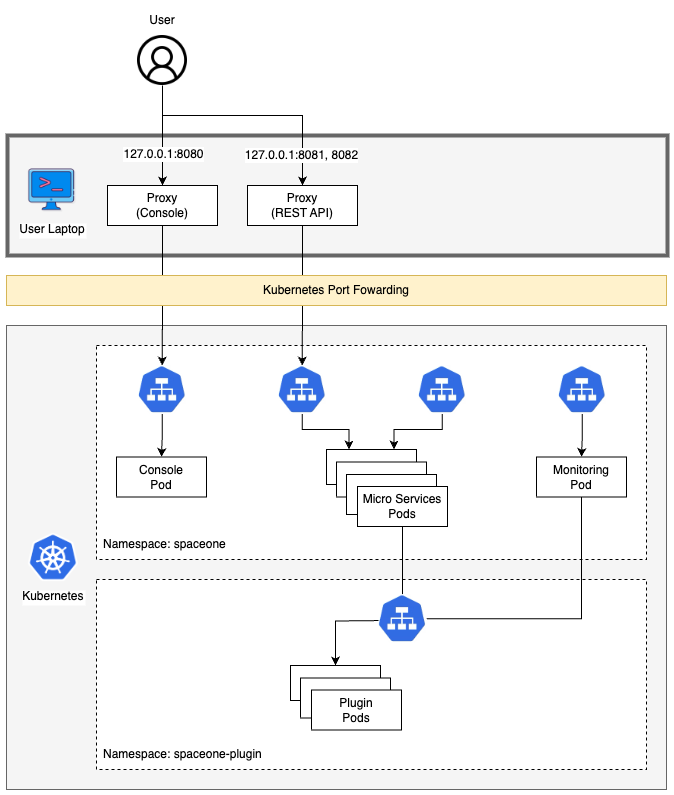
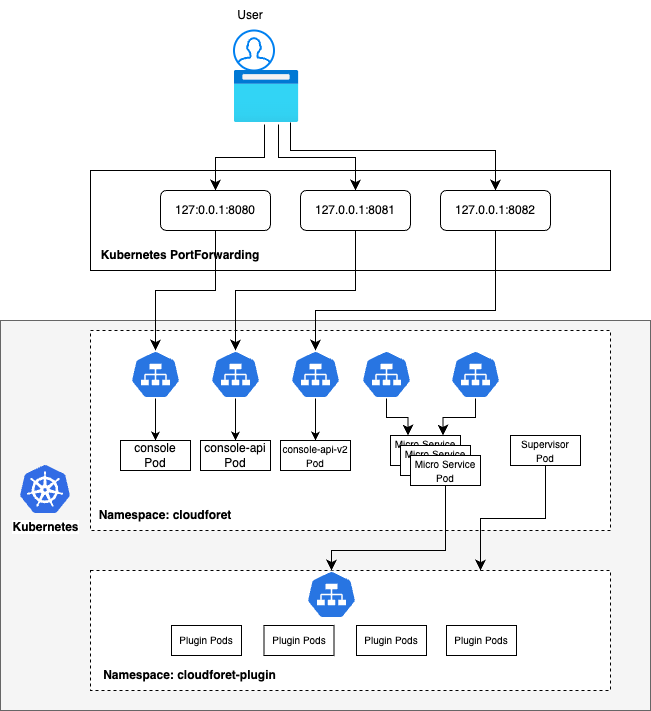
New installation for Version 2.x

Changed region(s): [[0.0, 0.0, 1.0, 1.0], [0.768, 0.557, 0.9524, 0.7736], [0.6759, 0.8973, 0.7988, 0.9283]]

diff --git a/content/en/docs/setup_operation/quick_install/_index.md b/content/en/docs/setup_operation/quick_install/_index.md
@@ -8,35 +8,34 @@ description: >
   How to install Cloudforet for developer
 ---
 
-This is Getting Started Installation guide with minikube.
 
-> Note :- This Guide is not for production, but for developer only.
+Previous version of Cloudforet, 
 
-**Verified Environments**
-
-| Distro     | Status             | Link(ex. Blog)   |
-| ---        | ---                | ---    |
-| Ubuntu 20.04    |  Not Tested   |    |
-| Ubuntu 22.04    |  Verified   |    |
-| Amazon Linux 2  |  Not Tested      |    |
-| Amazon Linux 2023  | Not Tested    |    |
-| macOS (Apple Silicon, M1) | Verified |   |
-| macOS (Apple Silicon, M2) | Verified   |   |
-| Windows         |  Verified   |  https://medium.com/@ayushsharma2267410/installation-of-cloudforet-in-windows-8c4a10c9a65f     |
-
-{{< video src="https://www.youtube.com/embed/HYvSNcKMypM" title="Cloudforet Installation with Minikube">}}
+| Version        | Installation Guide                                                                                   |
+|----------------|------------------------------------------------------------------------------------------------------|
+| v1.12 (stable) | https://cloudforet.io/v1-12/docs/setup_operation/quick_install/ |
+ | v2.x (development) | Current page |
 
 ## Overview
 
+This is Getting Started Installation guide with minikube.
+
+> Note :- This Guide is for developer only.
+ 
 ### Cloudforet-Minikube Architecture
 ![Cloudforet-Minikube Architecture](images/port_forwarding_architecture.png)
 
 ---
 
-
 ## Prerequisites
-- AWS EC2 VM (Intel/AMD/ARM CPU)
- > Recommended instance type: t3.large (2 cores, 8 GB Memory, **30GB EBS**)
+- Minimum requirements for development (2 cores, 8 GB memories, 30GB disk)
+
+| CSP | Possible Instance Type       |
+|---|------------------------------|
+| AWS | t3.large , m5.large          |
+| GCP | n4-standard-2, n1-standard-2 |
+| Azure | d2s-v3                       |
+
 - [Docker/Docker Desktop](https://docs.docker.com/engine/install/) 
   - If you don't have Docker installed, minikube will return an error as minikube uses docker as the driver.
   - Highly recommend installing **Docker Desktop** based on your OS.
@@ -52,60 +51,53 @@ Before diving into the Cloudforet Installation process, start minikube by runnin
 
 
 ~~~
-minikube start --driver=docker --memory=5000mb
+minikube start --driver=docker --memory=6000mb
 ~~~
-> If you encounter ```Unable to resolve the current Docker CLI context "default"``` error, check if the docker daemon is running.
 
 
 ## Installation
 You can install the Cloudforet by the following the steps below.
 
-> For Cloudforet v1.12.x, we DONOT provide helm charts online. You can download the helm chart from the Cloudforet Github
-
-### 1) Download Helm Chart Repository
-This command wll download Helm repository.
+### 1) Add Helm Repository
+This command wll register Helm repository.
 
 ```bash
-# Set working directory
-mkdir cloudforet-deployment
-cd cloudforet-deployment
-wget https://github.com/cloudforet-io/charts/releases/download/spaceone-1.12.12/spaceone-1.12.12.tgz
-tar zxvf spaceone-1.12.12.tgz
+helm repo add cloudforet https://cloudforet-io.github.io/charts
+helm repo update
+helm search repo cloudforet
 ```
 
 ### 2) Create Namespaces
 
 ```bash
 kubectl create ns cloudforet
-```
-```bash
 kubectl create ns cloudforet-plugin
 ```
 
 
 ### 3) Create Role and RoleBinding
-First, download the [rbac.yaml](https://github.com/cloudforet-io/charts/blob/master/examples/rbac.yaml) file.
+First, download the [rbac.yaml](https://raw.githubusercontent.com/cloudforet-io/charts/master/examples-v2/rbac.yaml) file.
 
 
 The rbac.yaml file basically serves as a means to regulate access to computer or network resources based on the roles of individual users. For more information about RBAC Authorization in Kubernetes, refer to [this](https://kubernetes.io/docs/reference/access-authn-authz/rbac/).
 
-If you are used to downloading files via command-line, run this command to download the file. 
-```bash
-wget https://raw.githubusercontent.com/cloudforet-io/charts/master/examples/rbac.yaml -O rbac.yaml
-```
-
+If you are used to downloading files via command-line, run this command to download the file.
 Next, execute the following command.
+
 ```bash
+wget https://raw.githubusercontent.com/cloudforet-io/charts/master/examples-v2/rbac.yaml -O rbac.yaml
 kubectl apply -f rbac.yaml -n cloudforet-plugin
 ```
 
 ### 4) Install Cloudforet Chart
 
-Download default YAML file for helm chart.
+Download default YAML file for helm chart. Execute the following command.
+
+> Current Cloudforet 2.x is development status, so you need to add `--devel` option.
 
 ```bash
-wget https://raw.githubusercontent.com/cloudforet-io/charts/master/examples/values/release-1-12.yaml -O release-1-12.yaml
-helm install cloudforet spaceone -n cloudforet -f release-1-12.yaml
+wget https://raw.githubusercontent.com/cloudforet-io/charts/master/examples-v2/values/release-2x.yaml -O release-2x.yaml
+helm install cloudforet cloudforet/spaceone -n cloudforet -f release-2x.yaml --devel
 ```
 
 After executing the above command, check the status of the pod.
@@ -114,6 +106,7 @@ After executing the above command, check the status of the pod.
 
 ```bash
 kubectl get pod -n cloudforet
+
 
 NAME                                      READY   STATUS             RESTARTS      AGE
 board-5746fd9657-vtd45                    1/1     Running            0             57s
@@ -148,88 +141,43 @@ statistics-scheduler-586875947c-8zfqg     0/1     Error              3 (30s ago)
 statistics-worker-68d646fc7-knbdr         1/1     Running            0             58s
 supervisor-scheduler-6744657cb6-tpf78     2/2     Running            0             59s
 ```
+
 > To execute the commands below, every POD except xxxx-scheduler-yyyy must have a Running status.
 
-### 5) Initialize the Configuration  
-First, download the [initializer.yaml](https://raw.githubusercontent.com/cloudforet-io/charts/master/examples/initializer.yaml) file.
+### 5) Default Initialization (in spacectl POD)
 
-For more information about the initializer, please refer to the [spaceone-initializer](https://github.com/cloudforet-io/spaceone-initializer).
+To use Cloudforet, you have to initialize the root domain, which creates a ***SYSTEM TOKEN***.
 
-If you are used to downloading files via command-line, run this command to download the file.
-```bash
-wget https://raw.githubusercontent.com/cloudforet-io/charts/master/examples/initializer.yaml -O initializer.yaml
-```
-And execute the following command.
-```bash
-wget https://github.com/cloudforet-io/charts/releases/download/spaceone-initializer-1.3.3/spaceone-initializer-1.3.3.tgz
-tar zxvf spaceone-initializer-1.3.3.tgz
-helm install initializer spaceone-initializer -n cloudforet -f initializer.yaml
-```
-
-### 6) Set the Helm Values and Upgrade the Chart
-Complete the initialization, you can get the system token from the initializer pod logs.
-
-To figure out the pod name for the initializer, run this command first to show all pod names for namespace spaceone.
-```bash
-kubectl get pods -n cloudforet 
-```
-Then, among the pods shown copy the name of the pod that starts with **initialize-spaceone**.
+Login to the spacectl POD and execute the command below.
 
 ```bash
-NAME                                       READY   STATUS      RESTARTS   AGE
-board-5997d5688-kq4tx                      1/1     Running     0          24m
-config-5947d845b5-4ncvn                    1/1     Running     0          24m
-console-7fcfddbd8b-lbk94                   1/1     Running     0          24m
-console-api-599b86b699-2kl7l               2/2     Running     0          24m
-console-api-v2-rest-cb886d687-d7n8t        2/2     Running     0          24m
-cost-analysis-8658c96f8f-88bmh             1/1     Running     0          24m
-cost-analysis-scheduler-67c9dc6599-k8lgx   1/1     Running     0          24m
-cost-analysis-worker-6df98df444-5sjpm      1/1     Running     0          24m
-dashboard-84d8969d79-vqhr9                 1/1     Running     0          24m
-docs-6b9479b5c4-jc2f8                      1/1     Running     0          24m
-identity-6d7bbb678f-b5ptf                  1/1     Running     0          24m
-initialize-spaceone-fsqen-74x7v            0/1     Completed   0          98m
-inventory-64d6558bf9-v5ltj                 1/1     Running     0          24m
-inventory-scheduler-69869cc5dc-k6fpg       1/1     Running     0          24m
-inventory-worker-5649876687-zjxnn          1/1     Running     0          24m
-marketplace-assets-5fcc55fb56-wj54m        1/1     Running     0          24m
-mongodb-b7f445749-2sr68                    1/1     Running     0          101m
-monitoring-799cdb8846-25w78                1/1     Running     0          24m
-notification-c9988d548-gxw2c               1/1     Running     0          24m
-notification-scheduler-7d4785fd88-j8zbn    1/1     Running     0          24m
-notification-worker-586bc9987c-kdfn6       1/1     Running     0          24m
-plugin-79976f5747-9snmh                    1/1     Running     0          24m
-plugin-scheduler-584df5d649-cflrb          1/1     Running     0          24m
-plugin-worker-58d5cdbff9-qk5cp             1/1     Running     0          24m
-redis-b684c5bbc-528q9                      1/1     Running     0          24m
-repository-64fc657d4f-cbr7v                1/1     Running     0          24m
-secret-74578c99d5-rk55t                    1/1     Running     0          24m
-spacectl-8cd55f46c-xw59j                   1/1     Running     0          24m
-statistics-767d84bb8f-rrvrv                1/1     Running     0          24m
-statistics-scheduler-65cc75fbfd-rsvz7      1/1     Running     0          24m
-statistics-worker-7b6b7b9898-lmj7x         1/1     Running     0          24m
-supervisor-scheduler-555d644969-95jxj      2/2     Running     0          24m
+kubectl exec -it spacectl-xxxxx -- /bin/sh
+spacectl config init -f default.yaml
 ```
-> To execute the below kubectl logs command, the status of POD(Ex: here initialize-spaceone-fsqen-74x7v) should be Completed . Proceeding with this while the POD is INITIALIZING will give errors
 
-Get the token by getting the log information of the pod with the name you found above.
+root domain yaml file (root.yaml)
+
+```yaml
+---
+admin:
+    user_id: admin@example.com
+    password: Admin123!@#
+    name: Admin
+```
+
+Execute the command below to create the root domain.
+
 ```bash
-kubectl logs initialize-spaceone-fsqen-74x7v -n cloudforet
-
-...
-TASK [Print Admin API Key] *********************************************************************************************
-"TOKEN_SHOWN_HERE"
-
-FINISHED [ ok=23, skipped=0 ] ******************************************************************************************
-
-FINISH SPACEONE INITIALIZE
+spacectl exec init identity.System -f root.yaml
 ```
 
-Update your helm values file (ex. release-1-12.yaml) and edit the values. There is only one item that need to be updated.
+### 6) Update Helm Values
+
+Update your helm values file (ex. release-2x.yaml) and edit the values. There is only one item that need to be updated.
 
 > For EC2 users: put in your EC2 server's public IP instead of 127.0.0.1 for both CONSOLE_API and CONSOLE_API_V2 ENDPOINT.
 
-* TOKEN
+* TOKEN (from the previous step)
 
 ```yaml
 console:
@@ -244,11 +192,11 @@ global:
     TOKEN: 'TOKEN_VALUE_FROM_ABOVE'   # Change the system token
 ```
 
-After editing the helm values file(ex. release-1-12.yaml), upgrade the helm chart.
+After editing the helm values file(ex. release-2x.yaml), upgrade the helm chart.
 
 
 ```bash
-helm upgrade cloudforet spaceone -n cloudforet -f release-1-12.yaml
+helm upgrade cloudforet cloudforet/spaceone -n cloudforet -f release-2x.yaml --devel
 ```
 
 After upgrading, delete the pods in cloudforet namespace that have the label app.kubernetes.io/instance and value cloudforet. 
@@ -261,6 +209,27 @@ kubectl delete po -n cloudforet -l app.kubernetes.io/instance=cloudforet
 kubectl get pod -n cloudforet
 ```
 
+### 8) Create User Domain (In spacectl POD)
+
+Create a user domain yaml file (domain.yaml)
+
+```yaml
+---
+name: spaceone
+admin:
+  user_id: admin@domain.com
+  password: Admin123!@#
+  name: Admin
+```
+
+execute the command below to create the user domain.
+
+```bash
+spacectl config init -f default.yaml
+spacectl config set_api_key {SYSTEM_TOKEN} 
+spacectl exec create identity.Domain -f domain.yaml
+```
+
 If all pods are in `Running` state, the setup is complete.
 
 ## Port-forwarding
@@ -271,35 +240,21 @@ Run the following commands for port forwarding.
 ~~~bash
 # CLI commands
 kubectl port-forward -n cloudforet svc/console 8080:80 --address='0.0.0.0' &
-~~~
-~~~bash
 kubectl port-forward -n cloudforet svc/console-api 8081:80 --address='0.0.0.0' &
-~~~
-~~~bash
 kubectl port-forward -n cloudforet svc/console-api-v2-rest 8082:80 --address='0.0.0.0' &
 ~~~
 
 ## Start Cloudforet
 
-### Log-In (Sign in for Root Account)
+### Log-In User Domain
 > For EC2 users: open browser with http://your_ec2_server_ip:8080
 
 Open browser (http://127.0.0.1:8080)
 
-| ID | PASSWORD |
-|---|---|
-| admin | Admin123!@# |
-
-![](/docs/setup_operation/quick_install/quick_install_img/quick_install_image_03.png)
-
-### Initial Setup for Cloudforet
-> For your reference, Cloudforet is an open source project for SpaceOne. For additional information, refer to our official website [here](https://spaceone.megazone.io/open-source).
-
-
-{{< video src="https://www.youtube.com/embed/zSoEg2v_JrE" title="spaceONE Basci Setup in 10 minutes">}}
+| ID                | PASSWORD |
+|-------------------|---|
+| admin@domain.com | Admin123!@# |
 
 ## Reference
 
-* [Full Installation Guide](https://github.com/cloudforet-io/charts)
-* [Discuss channel](https://github.com/orgs/cloudforet-io/discussions/134)
-
+* [Discuss channel (Discord)](https://discord.gg/7ExpTmA6TE)
